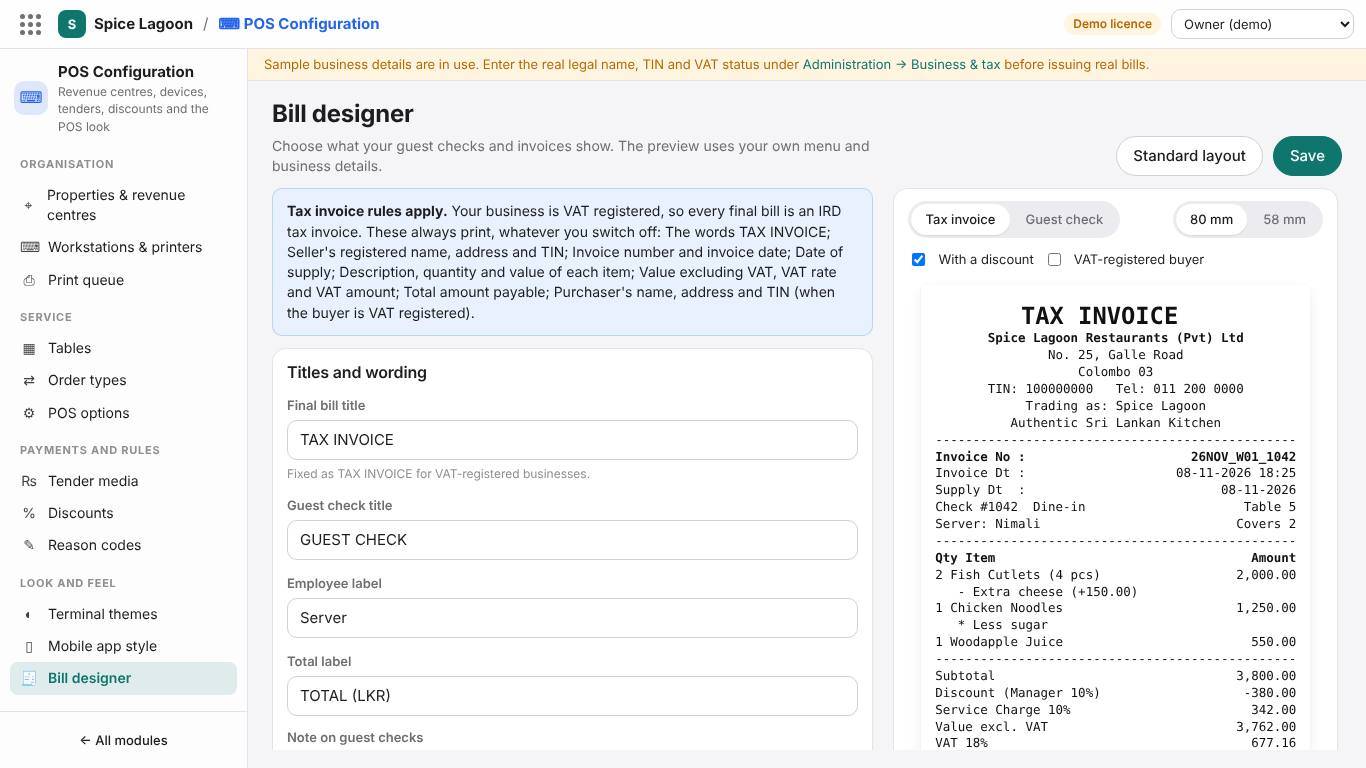
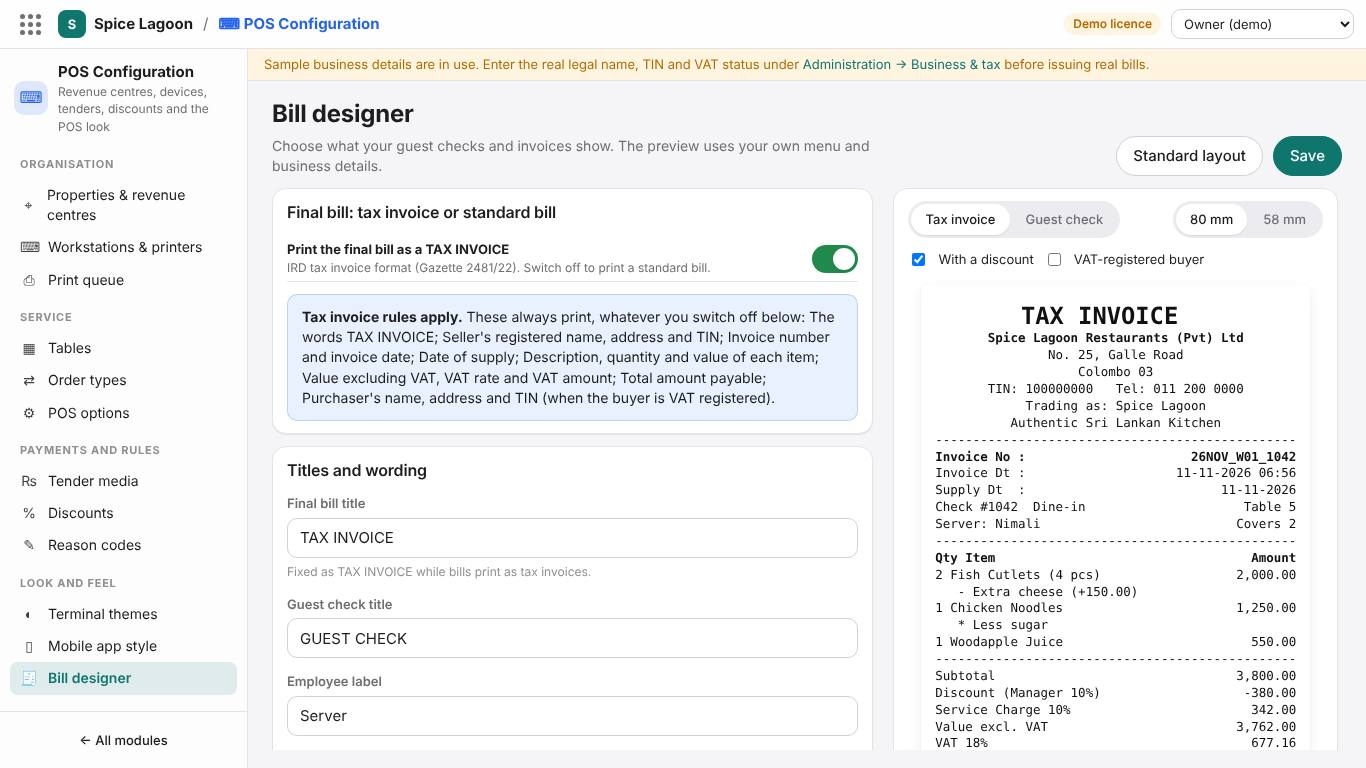
Docs for one phone with a Bluetooth printer and the standard bill; 1.3.0
- Hardware guide: Model C (one phone + Bluetooth printer, no PC), the
  two Bluetooth routes, the XP-T80Q.
- Deployment manual: O.4 setup, overview and sections A, K and U.
- User manual: Bluetooth printing and the printer button; Bill designer
  tax invoice / standard bill.
- Configuration guide, steward and cashier training.
- Noura Kitchen plan: one phone and their XP-T80Q over Bluetooth, standard
  bill (not VAT/SSCL registered), Starter licence with add-ons enough.
- Changelog and version 1.3.0.

Claude-Session: https://claude.ai/code/session_01SxSh2LgxEZP6LtddEm19hB

Changed region(s): [[0.1845, 0.25, 0.6457, 0.9688], [0.9224, 0.5938, 0.9531, 0.625]]

diff --git a/docs/18-deployment-manual.md b/docs/18-deployment-manual.md
@@ -14,7 +14,10 @@ This manual takes one client from nothing to live trading on the **Cloud Restaur
 | Stewards, cashiers, bar and kitchen staff | **Phones** (their own or the restaurant's), tablets, a counter PC | The device is **connected once with a one-time code** (section O); each person then signs in with their employee number and PIN |
 | The Print Agent | One always-on PC in the restaurant, on the same network as the printers | A POS terminal login (section O) |
 
-Phones work on the restaurant's Wi-Fi or on mobile data. They don't print directly: bills and kitchen tickets go through the cloud to the Print Agent, which drives the printers and the cash drawer. So the restaurant itself needs only the printers, the Print Agent PC and a reliable internet line (with 4G backup).
+Phones work on the restaurant's Wi-Fi or on mobile data. They print in one of two ways:
+
+- **Through the Print Agent** (several devices, network printers): bills and kitchen tickets go through the cloud to the Print Agent PC in the restaurant, which drives the printers and the cash drawer.
+- **To a Bluetooth printer beside the phone** (a small business with one phone and one printer, no PC): the phone prints straight to the printer. See O.4.
 
 ## Contents
 - A. Before you start
@@ -62,9 +65,9 @@ Collect from the client:
 
 Hardware ready at the site:
 - **Staff phones** (and any tablets): Android 10 or newer with Chrome, or iPhone/iPad with iOS 16 or newer with Safari. Charged, with Wi-Fi or mobile data. Staff's own phones are fine (see O.1).
-- **Print Agent PC:** any small always-on Windows PC or mini-PC on the restaurant network, with the printers. It can also be the counter PC.
+- **Print Agent PC:** any small always-on Windows PC or mini-PC on the restaurant network, with the printers. It can also be the counter PC. **Not needed** for a small business with one phone and a Bluetooth printer (O.4).
 - **Counter PC (optional):** Windows 10/11 with a touch screen, Chrome or Edge, if the cash desk uses a big screen.
-- **Bill printer and kitchen printer:** ESC/POS network printers (LAN or Wi-Fi), for example Epson TM-T82III. Network printers let the Print Agent PC sit anywhere on the network.
+- **Bill printer and kitchen printer:** ESC/POS network printers (LAN or Wi-Fi), for example Epson TM-T82III. Network printers let the Print Agent PC sit anywhere on the network. **Or**, for one phone: a Bluetooth ESC/POS printer such as the Xprinter XP-T80Q (O.4).
 - **Cash drawer** connected to the bill printer.
 - **Restaurant Wi-Fi** covering the dining area and kitchen, a **4G router as backup internet** for the Print Agent PC and printers, and a **UPS** for the router, PC and printers.
 
@@ -337,7 +340,7 @@ In **POS Configuration**:
    - **Workstations:** one per POS device: **every phone**, tablet and counter PC has its own.
      - **Code** `W01` (counter PC), `P01`, `P02`… (phones), `T01` (tablets); the code appears in IRD invoice numbers, so never reuse one.
      - Default revenue centre, plus which revenue centres it may switch to.
-     - Receipt printer, and **printing via Print Agent** (the only way phones and tablets print).
+     - Receipt printer, and **printing via Print Agent**, or **Bluetooth printer next to this phone or tablet** (O.4: no printer records or Print Agent needed).
      - Phones' workstations can also be created while connecting the phone (section O), which is quicker.
      - The licence limits active workstations (Starter 3, Professional 12): count every phone, plus one or two spares.
 3. **Tables** (if table service) and **Order types**.
@@ -452,6 +455,8 @@ A code works **once, for 15 minutes**. Connect phones one at a time, while you h
 
 ### O.3 The Print Agent
 
+Skip this part when the only POS device prints to its own Bluetooth printer (O.4).
+
 The Print Agent runs on the counter PC, or on a mini-PC that is always on. It prints bills and kitchen tickets for every device, including phones, and opens the cash drawer.
 1. Install Git, Node.js 22 LTS and pnpm on that PC (as in E.1), then clone the code and run `pnpm install`.
 2. Copy `apps/print-agent/.env.example` to `apps/print-agent/.env` and fill it in:
@@ -473,8 +478,26 @@ pnpm agent
 
    Keep the PC from sleeping (Power settings → never sleep).
 
+### O.4 One phone and a Bluetooth printer (small businesses, no Print Agent)
+
+A small restaurant can run on **one phone** (or tablet) with **one Bluetooth receipt printer** beside it, for example an **Xprinter XP-T80Q** (80 mm, USB + Bluetooth, ESC/POS, cash drawer port). Bills, kitchen tickets, X/Z reports and the cash drawer all go to that printer. No PC, no Print Agent, no network printers. See [11](11-hardware-and-printing.md) (Model C).
+
+1. **Phone:** Android with **Chrome** is recommended. On an iPhone, open the POS in the **Bluefy** browser instead (Safari and Chrome on iOS can't use Bluetooth from web apps).
+2. **Printer:** load the paper, switch it on, and connect the cash drawer to the printer's drawer port.
+3. **Connect the phone** (O.1): in **How this phone prints**, choose **Bluetooth printer beside it (Chrome on Android)**. (For an existing workstation: Workstations & printers → the workstation → **Printing: Bluetooth printer next to this phone or tablet**, **Bluetooth route: From the browser**, **paper 80 mm**, and **Kitchen and bar tickets print on this printer too** on.)
+4. **On the phone**, in the POS: tap **Connect printer** (home screen, or More → Bluetooth printer) → **Choose the printer** → pick it from the list (named like *XP-T80Q* or *Printer001*) → **Test print**. The phone remembers it and reconnects by itself while the POS is open.
+5. **If the printer isn't in the list**, or the test doesn't print, its Bluetooth is classic only. Then:
+   1. install **RawBT** from Google Play;
+   2. pair the printer in Android **Settings → Bluetooth** (PIN usually `0000` or `1234`);
+   3. in RawBT, choose the printer and 80 mm paper;
+   4. set the workstation's **Bluetooth route** to **Through the RawBT app**;
+   5. **Test print** again.
+6. **Test a sale:** send an order (the kitchen ticket prints) and take a cash payment (the bill prints and the drawer opens).
+
+If the printer is switched off or out of range, prints **wait on the phone**: the printer button shows how many. They print as soon as the printer is connected again. A bill that never printed can be reprinted from **Orders**.
+
 - [ ] Every phone, tablet and counter PC connected with a code, on its own workstation, added to the home screen; all listed under Connected phones and tablets
-- [ ] Print Agent running and starting with Windows; test page, bill, kitchen ticket and drawer all work, **from a phone** as well
+- [ ] Print Agent running and starting with Windows; test page, bill, kitchen ticket and drawer all work, **from a phone** as well (or, for one phone with a Bluetooth printer: test page, kitchen ticket, bill and drawer from the phone, O.4)
 - [ ] An order taken on mobile data (Wi-Fi off) prints in the kitchen
 
 ---
@@ -566,6 +589,9 @@ Staff can use the system at `https://PROJECT-ID.web.app` from anywhere. A domain
 | Phone shows "This phone is no longer connected" | It was removed (lost phone, leaver). Connect it again with a new code if it should be used. |
 | Phone shows the email/password sign-in | It isn't connected: use **Connect it with the code** on that screen, not a password. |
 | Phone orders don't print | The Print Agent PC is off or offline, or the workstation's bill printer isn't set. Orders still reach the cloud; they print when the agent is back. |
+| Bluetooth printer: "Printer: 2 waiting" / "Connect printer" | The printer is off, out of range, or the phone restarted. Switch it on, tap the printer button → **Connect printer**. Waiting prints then come out. |
+| Bluetooth printer not in the phone's list | Its Bluetooth is classic only, or Bluetooth/location is off on the phone. Switch them on; otherwise use the RawBT route (O.4 step 5). |
+| iPhone: "can't print to Bluetooth printers" | Safari and Chrome on iOS have no Web Bluetooth. Open the POS in the Bluefy browser, or print through the Print Agent. |
 | Licence: "This licence is for project …" | Issued for another project id. Re-issue with `--project` set to the id shown on the Licence page. |
 | Licence: "signature is not valid" | The deployment's public key doesn't match the key that signed it. Check `VITE_LICENCE_PUBLIC_KEY` and `LICENCE_PUBLIC_KEY`, then redeploy. |
 | Accounting buttons fail with a region error | `LOCATION` (functions) and `VITE_FUNCTIONS_REGION` (web) must both equal the Firestore location. |

diff --git a/docs/clients/noura-kitchen.md b/docs/clients/noura-kitchen.md
@@ -35,7 +35,7 @@ pnpm release:deploy --target noura-kitchen
 1. The owner creates their account on `https://<project-id>.web.app` and verifies the email.
 2. **Create business** "Noura Kitchen" with the modules **Accounting**, **Inventory**, **Purchasing** (and **Recipes** if the menu will be costed). The starter set-up is added automatically: outlet MAIN, main store, roles, payment methods, reason codes, chart of accounts and cost centre.
 3. **+ Business → Load the demo restaurant** as a training copy.
-4. Licence (deployment manual I): **Professional + Accounting**. It covers books and stores now and the POS later, and allows **12 workstations**: staff will use their phones as POS devices, and each phone needs its own workstation. (Starter allows only 3.) Issue against the project and business IDs shown on Licence & modules.
+4. Licence (deployment manual I). Noura Kitchen starts with **one phone** as its only POS device, so **Starter + Inventory, Purchasing, Recipes and Accounting add-ons** is enough (3 workstations: the phone plus spares). Choose **Professional + Accounting** (12 workstations) instead if they expect more staff phones soon; moving up later is a new licence key, nothing else changes. Issue against the project and business IDs shown on Licence & modules.
 
 ## 3. Configuration with the client (2–3 hours)
 
@@ -43,7 +43,7 @@ Work down **Administration → Setup checklist** together, using the [configurat
 
 | Step | Decide with the client |
 |---|---|
-| Business & tax | Registered name, TIN, VAT registration (yes/no), SSCL, service charge. |
+| Business & tax | Registered name, address, phone, service charge. Noura Kitchen is **not VAT or SSCL registered**: leave both off. Bills then print as a **standard bill** (Bill No, date, items, service charge, total), not a tax invoice; the Bill designer shows *Print the final bill as a TAX INVOICE* off. Turn VAT on only when they register. |
 | Fiscal year | **Books start on**: the first day of the month from which bills will be entered (for example 1 April). Open the fiscal year(s). |
 | Finance settings | Who keeps the books. One person → journal approval limit high (for example Rs 1,000,000); owner + accountant → 0 or Rs 50,000. Payment limit Rs 50,000 unless they prefer otherwise. |
 | Accounts | Add the few they need: 6150 Gas, 6170 Telephone and internet, 3200 Owner's drawings… |
@@ -69,16 +69,18 @@ Work down **Administration → Setup checklist** together, using the [configurat
 
 > Stock deliveries from now on are received as **goods receipts** (Inventory → Goods receipts) with the delivery note photographed, not as expenses. Without the POS, a **Kitchen usage** count each week or month turns what the kitchen used into cost of sales.
 
-## 5. When the POS starts: staff phones
+## 5. When the POS starts: one phone and the Bluetooth printer
 
-Staff use the POS on their own phones over the internet (deployment manual, sections A, K and O):
+Noura Kitchen starts small: **one phone** as the POS and their **Xprinter XP-T80Q** (80 mm, USB + Bluetooth, ESC/POS, cash drawer port) beside it. **No Print Agent PC and no network printers** (deployment manual O.4; hardware guide, Model C):
 
-1. **At the restaurant:** bill and kitchen printers on the network, the **Print Agent** on an always-on PC with a POS terminal login (`printer@…`), Wi-Fi over the dining area and kitchen, and a 4G backup router.
-2. **Turn on the POS module**; menu, tables, tenders and employees with their own PINs (sections K–M).
-3. **Connect each phone** with a code: POS Configuration → Workstations & printers → Connect a phone → *new workstation* (`P01`, `P02`…). The steward scans the QR code, taps **Connect** and adds it to the home screen.
-4. Sign-in policy: automatic sign-out **120 seconds** (personal phones).
-5. Test: an order from each phone prints in the kitchen; one with the phone on mobile data; a bill and the cash drawer.
-6. When someone leaves, or a phone is lost: **Remove** the phone and end the employee.
+1. **Phone:** an Android phone with Chrome (recommended). If it is an iPhone, the POS runs in the **Bluefy** browser.
+2. **Printer:** 80 mm paper loaded, cash drawer plugged into the printer's drawer port, printer on.
+3. **Turn on the POS module**; menu, tenders and employees with their own PINs (sections K–M). No printer records are needed.
+4. **Connect the phone** with a code: POS Configuration → Workstations & printers → **Connect a phone** → name *Counter phone* → **+ New workstation** (`P01`) → **How this phone prints: Bluetooth printer beside it (Chrome on Android)** → **Show the code**. Scan it with the phone, **Connect**, add to the home screen.
+5. **On the phone:** **Connect printer** → **Choose the printer** → pick the XP-T80Q from the list → **Test print**.
+   If the printer doesn't appear or the test doesn't print, use RawBT: install RawBT, pair the printer in Android Bluetooth settings (PIN `0000` or `1234`), choose it in RawBT, and set the workstation's **Bluetooth route** to **Through the RawBT app**.
+6. **Test:** an order (the kitchen ticket prints at the counter for the kitchen), a cash payment (the standard bill prints and the drawer opens), the X report.
+7. **More phones later:** connect each one with a code. With several devices, a Print Agent PC and network printers (sections K and O) are usually better than a Bluetooth printer per phone.
 
 ## 6. Training
 
@@ -101,4 +103,4 @@ Hand over the PDFs (`pnpm manual:pdf -- --client "Noura Kitchen"`): user manual,
 - [ ] Bill photos attached
 - [ ] Trial balance agreed with the owner
 - [ ] Accountant and storekeeper trained and signed off
-- [ ] Later: POS module, menu, employees; every staff phone connected with a code and tested with the printers (section 5 above)
+- [ ] Later: POS module, menu, employees; the phone connected with a code and printing to the XP-T80Q over Bluetooth: test page, kitchen ticket, standard bill and cash drawer (section 5 above)

diff --git a/docs/manual/user-manual.md b/docs/manual/user-manual.md
@@ -427,12 +427,20 @@ Some roles have privileges marked **approval** (for example a cashier's paid-out
 | Hardware model | Dedicated POS / Windows PC, or Mobile (tablet / phone). |
 | **Screen style** | *Business setting* (follow Mobile app style), *Terminal layout*, *Bright app* or *Indigo app*: choose per device. |
 | Bill printer | The printer for this device's bills. |
-| Printing | *Print Agent* (recommended, works for tablets and phones), *Direct from POS Shell* (USB on this PC), or *On-screen only* (demo). |
+| Printing | *Print Agent* (the restaurant's printers, for every device), *Bluetooth printer next to this phone or tablet* (no Print Agent: for one phone and one printer), *Direct from POS Shell* (USB on this PC), or *On-screen only* (demo). |
+| Bluetooth route, paper, kitchen tickets | For Bluetooth printing: *From the browser* (Chrome on Android) or *Through the RawBT app* (Android, any Bluetooth printer); 80 or 58 mm paper; whether kitchen and bar tickets print on the same printer. |
 | Automatic sign-out | Overrides the business setting for this device (seconds; 0 = never). |
 
 **Printers:** name, role (receipt, kitchen, bar, report), model, connection (network/USB/Bluetooth), address and port, paper width (80 or 58 mm), the Print Agent that drives it, and a backup printer.
 
 **Print queue** (separate page) shows bills and tickets waiting for the Print Agent. Preview a job, print it from the browser, or mark it printed if it came out.
+
+**One phone and a Bluetooth printer.** A small business can run with one phone and one Bluetooth receipt printer beside it (for example an Xprinter XP-T80Q), without a PC: set the phone's workstation to *Bluetooth printer next to this phone or tablet*. On the phone, the **printer button** (home screen, or More → Bluetooth printer) shows whether the printer is connected:
+
+1. Switch the printer on, tap **Connect printer** → **Choose the printer** and pick it from the list.
+2. Press **Test print**.
+
+The phone remembers the printer and reconnects by itself. Bills, kitchen tickets, reports and the cash drawer all use it. If it is off, prints wait on the phone (*Printer: 2 waiting*) and come out once it is connected. Android with Chrome is recommended; on an iPhone use the Bluefy browser. A printer with classic Bluetooth only works through the RawBT app (Android).
 
 ### 6.3 Tables, order types and POS options
 
@@ -488,13 +496,16 @@ Choose exactly what your guest checks and invoices print. The preview on the rig
 
 | Group | What you can change |
 |---|---|
-| **Titles and wording** | Final bill title (fixed as TAX INVOICE when VAT registered), guest check title, what to call the employee (Server, Steward, Cashier…), total label, the note on guest checks, lines under the address, footer lines. |
+| **Final bill** | **Print the final bill as a TAX INVOICE**: on for VAT-registered businesses; off (and unavailable) when the business isn't registered, so bills print as a standard bill. |
+| **Titles and wording** | Final bill title (fixed as TAX INVOICE while bills print as tax invoices; for a standard bill, for example *INVOICE* or *BILL*), guest check title, what to call the employee (Server, Steward, Cashier…), total label, the note on guest checks, lines under the address, footer lines. |
 | **Print style** | Header alignment (centre or left), quantity style (*2 Kottu* or *Kottu x2*), title and total size, discounts shown one by one or as one total, blank lines before the cut. |
 | **Header** | Logo, address, phone, email, website, "Trading as". |
 | **Check details** | Check number, order type, table, employee name, guests, printed time. |
 | **Items** | Column headings, combine identical items, unit price for multiples, modifiers, modifier prices, notes, seat numbers. |
 | **Totals and payment** | Item count, subtotal, "You saved Rs …", payment methods, payment references, change. |
 | **Footer** | LankaQR pay-by-QR on guest checks, feedback QR on invoices (with your link and caption), guest name and loyalty points, "Powered by". |
+
+**Tax invoice or standard bill.** A business that isn't registered for VAT (or SSCL) prints a **standard bill**: the business name, address and phone, **Bill No** and **date and time**, table and server, items, service charge, total, payments and change. It has no TIN and no tax-invoice wording, as the law requires for an unregistered business. Once the business registers, turn on VAT under Administration → Business & tax, and the final bill becomes a tax invoice. A VAT-registered business can switch the tax invoice off only on its accountant's advice. A bill for a VAT-registered buyer (TIN entered on the POS) still prints as a tax invoice.
 
 **Tax invoice rules.** If your business is VAT registered, the Inland Revenue requires certain particulars on every tax invoice. These always print, and their switches show **Always on a tax invoice**:
 

diff --git a/docs/11-hardware-and-printing.md b/docs/11-hardware-and-printing.md
@@ -1,6 +1,6 @@
 # 11 — Hardware models and printing
 
-Two hardware models live side by side in the same system. Each POS device is a **workstation** in EMC (*Setup → Devices & printers*) with a **hardware model**: *Dedicated* or *Mobile*. A restaurant can mix them, for example a counter terminal plus floor tablets.
+Three hardware models live side by side in the same system. Each POS device is a **workstation** in EMC (*Setup → Devices & printers*) with a **hardware model**: *Dedicated* or *Mobile*. A restaurant can mix them, for example a counter terminal plus floor tablets.
 
 ## Model A: Dedicated terminals
 
@@ -53,6 +53,37 @@ Two hardware models live side by side in the same system. Each POS device is a *
 - Install the printer with its driver (or "Generic / Text Only") and share it (e.g. as `POS80`).
 - Set the printer address to `POS80`. The agent copies raw ESC/POS bytes to `\\localhost\POS80`.
 
+## Model C: One phone and a Bluetooth printer (small businesses)
+
+For a small restaurant with **one phone** (or tablet) and **one receipt printer beside it**, and no PC. The phone prints straight to the printer over Bluetooth: no Print Agent, no network printer.
+
+| Item | Options |
+|------|---------|
+| POS device | An Android phone or tablet with Chrome (recommended). iPhone/iPad: only in the **Bluefy** browser (Safari and Chrome on iOS have no Bluetooth for web apps) |
+| Printer | 58 or 80 mm ESC/POS thermal printer with Bluetooth, for example **Xprinter XP-T80Q** (80 mm, USB + Bluetooth, ESC/POS, 200 mm/s, 24 V cash drawer port) |
+| Cash drawer | Plugged into the printer's drawer port; opens on cash payments |
+| Kitchen | Kitchen tickets print on the same printer (the steward hands them to the kitchen), or on a kitchen printer through a Print Agent if there is one |
+| Print path | Phone → **Bluetooth** → printer, from the browser (Web Bluetooth) or through the **RawBT** app |
+
+```
+ Phone (POS) ──Bluetooth──► Receipt printer ──► cash drawer
+      │
+      └──(internet)──► Firebase: orders, bills, reports, books
+```
+
+**Two Bluetooth routes** (per workstation, *Bluetooth route*):
+
+| Route | Works with | Notes |
+|---|---|---|
+| **From the browser** (Chrome on Android) | Printers with **Bluetooth Low Energy (BLE)**, which most current Bluetooth receipt printers have alongside classic Bluetooth | Choose the printer once from the phone's POS (**Connect printer**); it reconnects by itself while the POS is open. The POS looks for the printing services receipt printers use (18F0, Xprinter/Gprinter E7810A71, Microchip transparent UART and others) and sends ESC/POS in small packets |
+| **Through the RawBT app** (Android) | **Any** Bluetooth printer, including classic Bluetooth (SPP) only | Install RawBT from Google Play, pair the printer in Android's Bluetooth settings (PIN usually 0000 or 1234), choose it in RawBT. The POS hands each print to RawBT |
+
+**Setting it up:** back office → *Workstations & printers* → the phone's workstation → **Printing: Bluetooth printer next to this phone or tablet**, the route and the paper width (or choose *Bluetooth printer beside it* when connecting the phone). Then on the phone: the **printer button** → **Choose the printer** → **Test print**. Printer records and the Print Agent are not needed.
+
+**When the printer is off:** prints wait on the phone (the printer button shows how many) and print as soon as it is connected again. Nothing is lost if one never prints: the bill is in the system and can be reprinted from *Orders*.
+
+> **Which route for the XP-T80Q?** Try **From the browser** first: switch the printer on, press *Choose the printer* on the phone and look for it in the list (named like *XP-T80Q* or *Printer001*). If it doesn't appear, or the test page doesn't print, its Bluetooth is classic only: use **Through the RawBT app**.
+
 ### Printing without the agent (demos)
 Set a workstation's printing to **On-screen only**. Bills and KOTs then open as an on-screen preview, which can be printed with the device's own print dialog (AirPrint, Android print or Windows printers).
 
@@ -70,4 +101,5 @@ Set a workstation's printing to **On-screen only**. Bills and KOTs then open as 
 | Starter (dedicated) | Windows PC + budget ESC/POS printer + cash drawer |
 | Standard (dedicated) | 15.6" Windows touch POS + Epson TM-T82III (USB + LAN) + cash drawer + UPS + 4G failover router |
 | Mobility | 1–3 Android tablets or iPads + Ethernet bill printer + cash drawer + network KOT printer + mini-PC or Raspberry Pi for the Print Agent + Wi-Fi access point |
+| Single phone (Model C) | 1 Android phone (Chrome) + Bluetooth ESC/POS printer (for example Xprinter XP-T80Q) + cash drawer on the printer. No PC |
 | Hybrid | Counter terminal (Standard) + floor tablets. The counter PC runs the Print Agent for all printers |

diff --git a/CHANGELOG.md b/CHANGELOG.md
@@ -2,6 +2,24 @@
 
 Every release, newest first. The "For clients" part is what you send to clients as release notes.
 
+## 1.3.0 — 2026-11-11
+
+**Type:** Minor (new features) · **Deploy:** hosting only (no rule, function or data changes)
+
+### For clients
+
+- **One phone and a Bluetooth printer, no PC.** A small restaurant can print bills, kitchen tickets and reports, and open the cash drawer, straight from its phone to a Bluetooth receipt printer beside it (for example an Xprinter XP-T80Q). No Print Agent or network printer needed. The phone's printer button connects the printer, makes a test print and shows prints waiting while the printer is off.
+- **Tax invoice or standard bill.** Bill designer → *Print the final bill as a TAX INVOICE*. Businesses not registered for VAT or SSCL print a standard bill (Bill No, date and time, items, service charge, total) with no TIN or tax-invoice wording.
+
+### Changes
+
+- Workstation printing *Bluetooth printer next to this phone or tablet*: from the browser (Web Bluetooth, Chrome on Android, Bluetooth LE printers; common printer services such as 18F0 and Xprinter's E7810A71; small-packet fallback) or through the RawBT app (Android, classic Bluetooth); paper width; kitchen tickets on the same printer. Set when connecting a phone or on the workstation. Prints wait on the phone while the printer is off and print on reconnect.
+- iPhone: explained in the app (Bluefy browser) since Safari and Chrome on iOS have no Web Bluetooth.
+- Standard bill: *Bill No* and *Date* instead of the tax invoice's invoice/supply dates; no TIN; tax invoice only for VAT-registered sellers (switch on by default), and always for a VAT-registered buyer.
+- One paper-width rule for all POS printing (bills, tickets, X/Z, reports, reprints).
+- Docs: hardware Model C (one phone + Bluetooth printer), deployment manual O.4, user manual, configuration guide, training, Noura Kitchen plan (XP-T80Q, standard bill, Starter licence with add-ons enough for one phone).
+- Tests: printing (standard bill, switch off, business buyer), validation, and e2e with a simulated XP-T80Q over Web Bluetooth (20-byte packets): connect, test print, kitchen ticket, bill and drawer kick.
+
 ## 1.2.0 — 2026-11-09
 
 **Type:** Minor (new features) · **Deploy:** functions (new `deviceApi`), security rules, hosting

diff --git a/docs/manual/training/02-cashier.md b/docs/manual/training/02-cashier.md
@@ -59,7 +59,7 @@ The bill prints and the drawer opens for cash. The invoice number appears at the
 
 Order → **Proceed to Payment** → choose the method → enter the cash received or the reference → **Pay Now**. The **Payment Successful** screen shows the invoice and the change. **Print Receipt** prints it if it did not print automatically.
 
-The phone (connected once by the manager) works on Wi-Fi or mobile data. The bill prints on the restaurant's bill printer; the cash drawer opens there too. If a bill doesn't print, the payment is still recorded: tell the manager (the printer PC may be offline), and use **Print Receipt** later.
+The phone (connected once by the manager) works on Wi-Fi or mobile data. The bill prints on the restaurant's bill printer, or on the **Bluetooth printer beside the phone** in a small restaurant, and the cash drawer opens there too. With a Bluetooth printer, keep it switched on and charged: if the phone shows *Connect printer* or *2 waiting*, tap it → **Connect printer**. If a bill doesn't print, the payment is still recorded: tell the manager (the printer PC may be offline), and use **Print Receipt** later.
 
 ![Payment successful](../img/app-bright-success.jpg)
 

diff --git a/docs/manual/configuration-guide.md b/docs/manual/configuration-guide.md
@@ -64,6 +64,8 @@ This guide explains each setting in plain words, with examples from a restaurant
 
 > If you are not VAT registered, leave VAT off. VAT on supplier bills is then simply part of the cost, and the system adds it to the expense for you.
 
+**Your bills.** A business that isn't VAT registered prints a **standard bill** (Bill No, date and time, items, service charge, total), not a tax invoice. Check it under POS Configuration → **Bill designer**: *Print the final bill as a TAX INVOICE* is off and can't be switched on until VAT is turned on here. Change the title there if you prefer **BILL** to **INVOICE**.
+
 ---
 
 ## 3. Accounting ideas in five minutes

diff --git a/docs/manual/training/01-steward.md b/docs/manual/training/01-steward.md
@@ -21,6 +21,7 @@
 3. Five wrong PINs lock you out: ask your supervisor to unlock you.
 4. The phone signs you out after a short time without a touch. Sign in again; nothing is lost.
 5. Lost your phone, or got a new one? Tell the manager at once so the old one is removed.
+6. **Bluetooth printer** (when your phone prints to a printer beside it): the home screen shows the printer button. *Connect printer* or *2 waiting* means it isn't connected: switch the printer on, tap the button → **Connect printer**. Waiting prints then come out.
 
 **Exercise 1.** Sign in with a wrong PIN once and read the message. Then sign in correctly.
 
